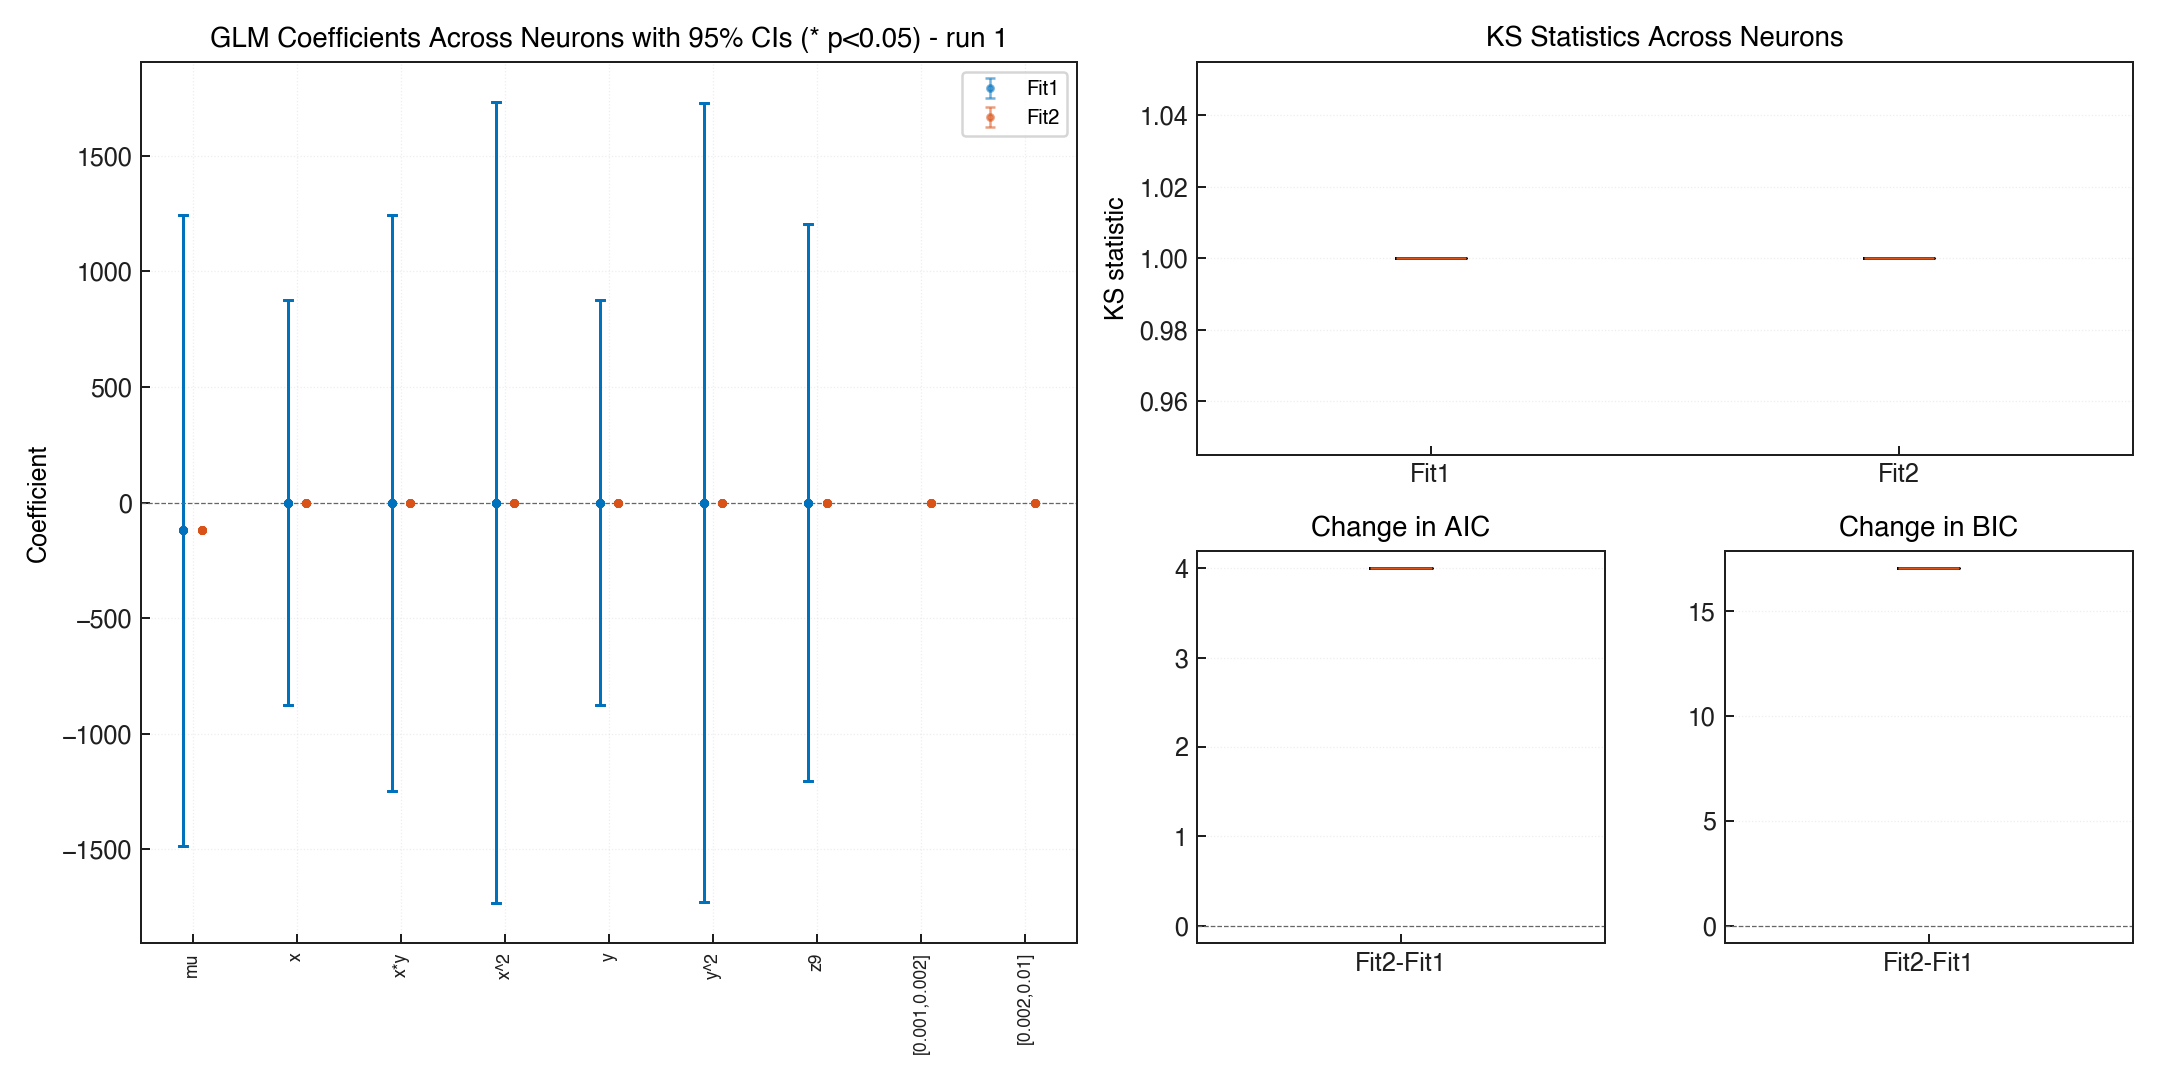
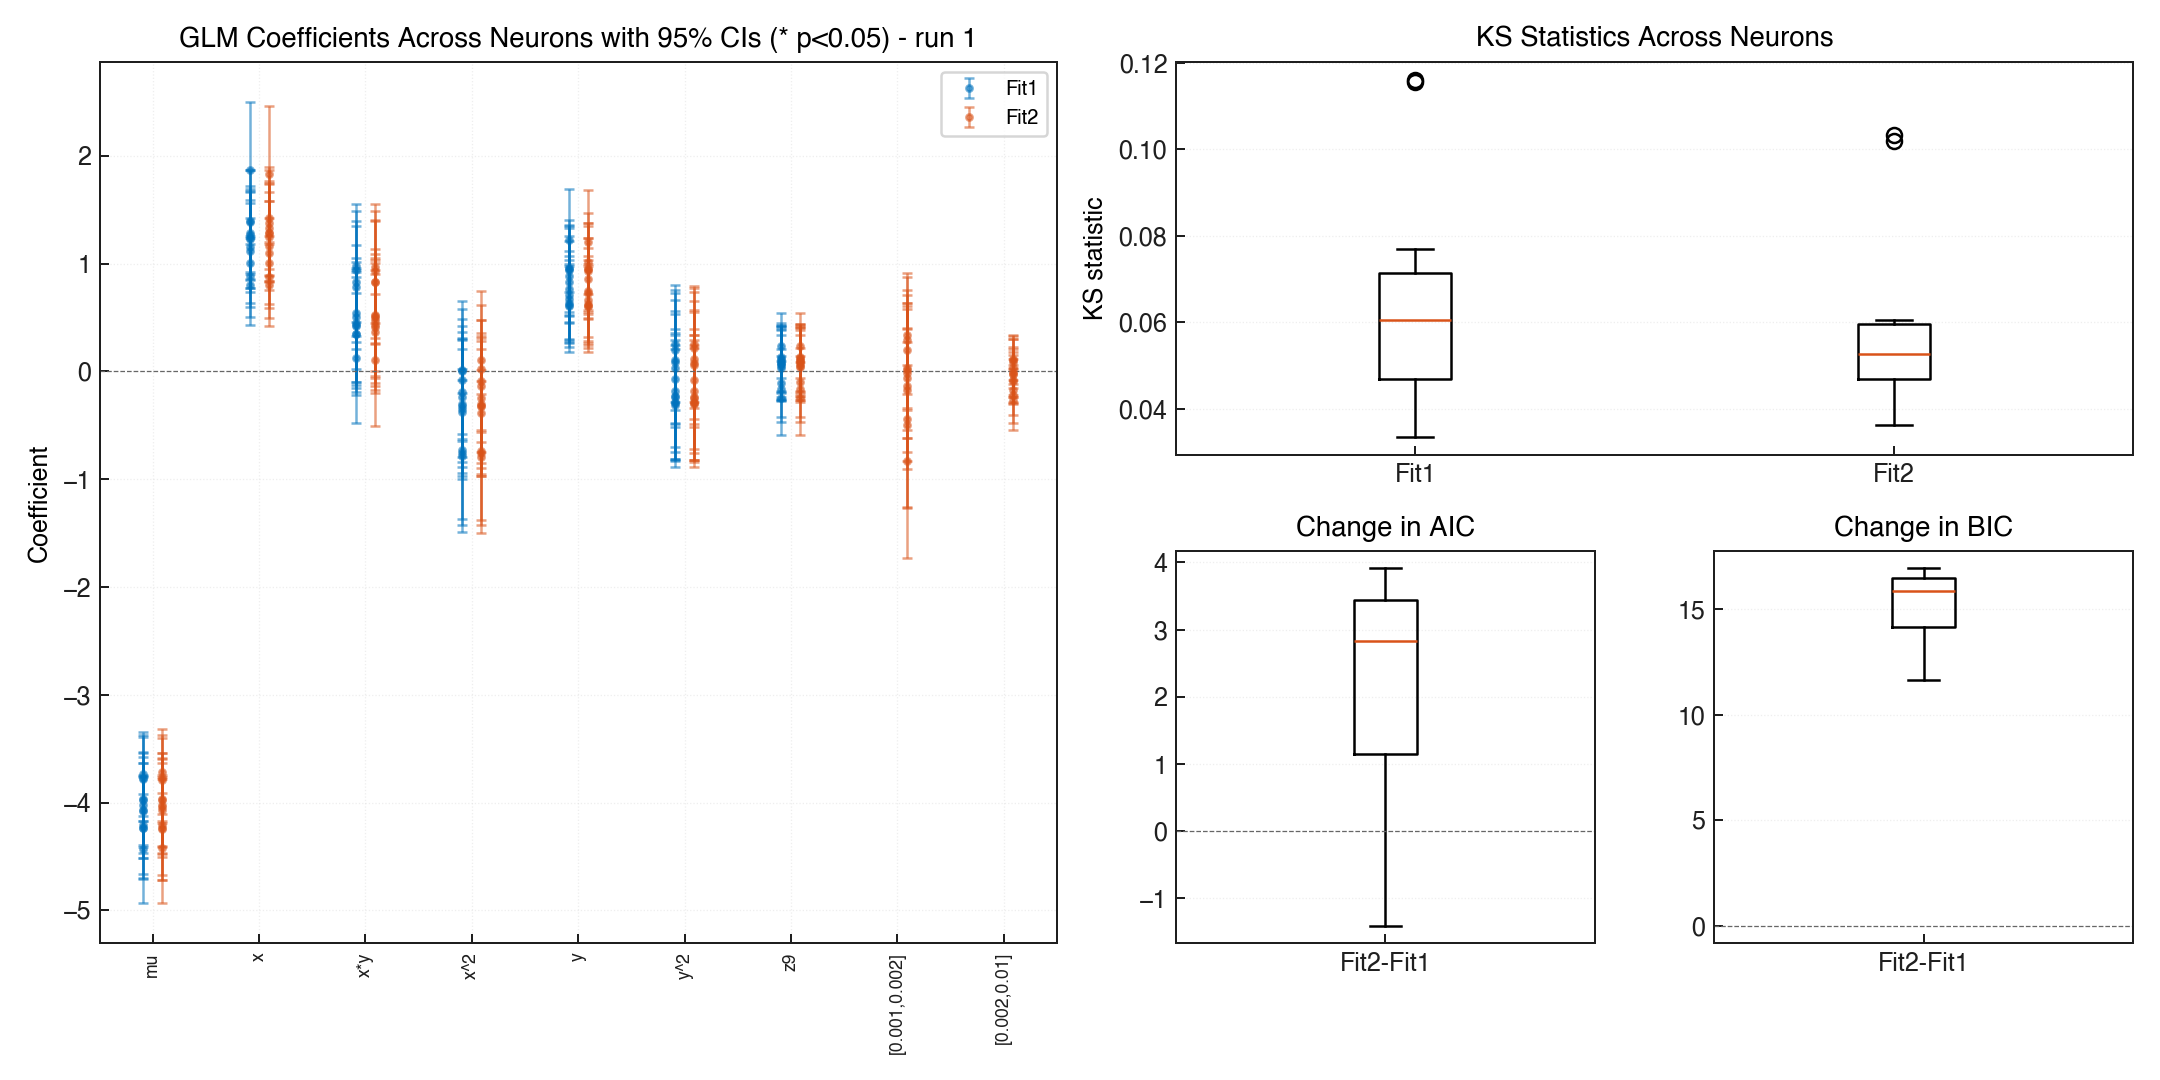
fix(notebooks): HistoryExamples synthetic population now fires at ~30 Hz
_build_population's beta_true["mu"] was -3.0, which with Ts=1ms gives a
per-bin spike probability <= 3.3e-4 (~0.1 Hz) -- most of the 12 synthetic
neurons produced 0-2 spikes total over the 5 s run. Every Fit1/Fit2 GLM
in SECTION 6 was then degenerate: the two history columns were all-zero
(rank 7 of 9), fits reported arbitrary SEs instead of NaN, and the
Fit1-vs-Fit2 comparison figures showed no real history effect.

Raise mu to 3.0 (mean rate ~30 Hz, ~130-165 spikes/neuron) so every GLM
is full rank and the comparison is meaningful. Regenerated the
HistoryExamples gallery (fig_004-fig_007) and the cross-notebook gallery
index via tools/notebook_build/build_notebook_galleries.py (the index on
main had drifted to a single entry; --skip-execute --group full restored
all 23 rows from the committed galleries). Marked the
history-examples-near-zero-spike-population ledger entry fixed and
updated the matching RELEASE_NOTES.md paragraph.

diff --git a/docs/notebook_galleries/README.md b/docs/notebook_galleries/README.md
@@ -10,6 +10,28 @@ MATLAB-helpfile port) rather than substantive plots — those are marked.
 
 | Notebook | Figures | Substantive | Source |
 |---|---|---|---|
+| [`AnalysisExamples`](AnalysisExamples/) | 4 | yes | [`notebooks/AnalysisExamples.ipynb`](../../notebooks/AnalysisExamples.ipynb) |
+| [`AnalysisExamples2`](AnalysisExamples2/) | 4 | yes | [`notebooks/AnalysisExamples2.ipynb`](../../notebooks/AnalysisExamples2.ipynb) |
+| [`CovCollExamples`](CovCollExamples/) | 2 | yes | [`notebooks/CovCollExamples.ipynb`](../../notebooks/CovCollExamples.ipynb) |
+| [`CovariateExamples`](CovariateExamples/) | 2 | yes | [`notebooks/CovariateExamples.ipynb`](../../notebooks/CovariateExamples.ipynb) |
+| [`DecodingExample`](DecodingExample/) | 7 | yes | [`notebooks/DecodingExample.ipynb`](../../notebooks/DecodingExample.ipynb) |
+| [`DecodingExampleWithHist`](DecodingExampleWithHist/) | 2 | yes | [`notebooks/DecodingExampleWithHist.ipynb`](../../notebooks/DecodingExampleWithHist.ipynb) |
+| [`EventsExamples`](EventsExamples/) | 4 | yes | [`notebooks/EventsExamples.ipynb`](../../notebooks/EventsExamples.ipynb) |
+| [`ExplicitStimulusWhiskerData`](ExplicitStimulusWhiskerData/) | 10 | yes | [`notebooks/ExplicitStimulusWhiskerData.ipynb`](../../notebooks/ExplicitStimulusWhiskerData.ipynb) |
+| [`HippocampalPlaceCellExample`](HippocampalPlaceCellExample/) | 11 | yes | [`notebooks/HippocampalPlaceCellExample.ipynb`](../../notebooks/HippocampalPlaceCellExample.ipynb) |
+| [`HistoryExamples`](HistoryExamples/) | 7 | yes | [`notebooks/HistoryExamples.ipynb`](../../notebooks/HistoryExamples.ipynb) |
+| [`HybridFilterExample`](HybridFilterExample/) | 3 | yes | [`notebooks/HybridFilterExample.ipynb`](../../notebooks/HybridFilterExample.ipynb) |
+| [`NetworkTutorial`](NetworkTutorial/) | 7 | yes | [`notebooks/NetworkTutorial.ipynb`](../../notebooks/NetworkTutorial.ipynb) |
+| [`PPSimExample`](PPSimExample/) | 4 | yes | [`notebooks/PPSimExample.ipynb`](../../notebooks/PPSimExample.ipynb) |
+| [`PPThinning`](PPThinning/) | 4 | yes | [`notebooks/PPThinning.ipynb`](../../notebooks/PPThinning.ipynb) |
+| [`PSTHEstimation`](PSTHEstimation/) | 2 | yes | [`notebooks/PSTHEstimation.ipynb`](../../notebooks/PSTHEstimation.ipynb) |
+| [`SignalObjExamples`](SignalObjExamples/) | 20 | yes | [`notebooks/SignalObjExamples.ipynb`](../../notebooks/SignalObjExamples.ipynb) |
 | [`StimulusDecode2D`](StimulusDecode2D/) | 6 | yes | [`notebooks/StimulusDecode2D.ipynb`](../../notebooks/StimulusDecode2D.ipynb) |
+| [`TrialExamples`](TrialExamples/) | 6 | yes | [`notebooks/TrialExamples.ipynb`](../../notebooks/TrialExamples.ipynb) |
+| [`ValidationDataSet`](ValidationDataSet/) | 12 | yes | [`notebooks/ValidationDataSet.ipynb`](../../notebooks/ValidationDataSet.ipynb) |
+| [`mEPSCAnalysis`](mEPSCAnalysis/) | 5 | yes | [`notebooks/mEPSCAnalysis.ipynb`](../../notebooks/mEPSCAnalysis.ipynb) |
+| [`nSTATPaperExamples`](nSTATPaperExamples/) | 29 | yes | [`notebooks/nSTATPaperExamples.ipynb`](../../notebooks/nSTATPaperExamples.ipynb) |
+| [`nSpikeTrainExamples`](nSpikeTrainExamples/) | 7 | yes | [`notebooks/nSpikeTrainExamples.ipynb`](../../notebooks/nSpikeTrainExamples.ipynb) |
+| [`nstCollExamples`](nstCollExamples/) | 5 | yes | [`notebooks/nstCollExamples.ipynb`](../../notebooks/nstCollExamples.ipynb) |
 
 Regenerate this gallery with `make regen-notebook-galleries` (executes the smoke group; pass `--group full` for everything).

diff --git a/parity/matlab_defects.md b/parity/matlab_defects.md
@@ -1186,13 +1186,13 @@ Schema for each entry:
 
 ---
 
-### Bug (Python notebook, not a MATLAB defect): `HistoryExamples.ipynb`: the synthetic population of the Fit1-vs-Fit2 section has almost no spikes (Python notebook bug; follow-up)
+### Bug (Python notebook, not a MATLAB defect): `HistoryExamples.ipynb`: the synthetic population of the Fit1-vs-Fit2 section has almost no spikes (Python notebook bug; fixed)
 
 - **MATLAB location:** n/a (nstat-python `notebooks/HistoryExamples.ipynb`, SECTION 6 `_build_population`)
 - **Defect class:** Bug (Python notebook, not a MATLAB defect)
 - **MATLAB behavior:** The generator sets `rate = exp(eta)` with eta about -3 and draws spikes with probability `1 - exp(-rate*Ts)` per 1 ms bin, i.e. it treats exp(eta) as spikes per second: the per-bin probability is <= 3.3e-4, so run 1 gives 0 spikes for all 12 neurons and run 2 at most 1.  Every Fit1 / Fit2 GLM is then degenerate (b0 = -120 for an empty train, KS = 1, Delta AIC = 4 from the two extra history columns), and the comparison figures (gallery fig_004 to fig_006) show no history effect at all.
 - **Correct behavior:** A population with enough spikes for the fits to mean something (for example a per-bin intensity exp(eta), or a rate in Hz of tens of spikes per second).
-- **Python implementation:** Not fixed (follow-up; found by the EM-branch review).  Since GLMFit's rank handling (nstat-python `948b0ce`) the 19 rank-deficient history fits (design 5001 x 9, rank 7: the two history columns are all zero) report finite SEs of about 450-885 and 0 for the two empty columns instead of all NaN; b changes by <= 7e-12 and AIC not at all.  So fig_004 to fig_006 gain Fit2 error bars.  The committed gallery PNGs were not regenerated: they byte-match neither a run of the base nor of the branch, and no gate checks them.
+- **Python implementation:** Fixed (P2b-2026-10): `_build_population`'s `beta_true["mu"]` changed from -3.0 to 3.0, so the mean per-bin rate is ~30 Hz (~130-166 spikes per neuron over the 5 s / 1000 Hz run) instead of <0.1 Hz. Every Fit1 / Fit2 GLM is now well-identified (no rank-deficient designs), and the regenerated gallery figures (fig_004 to fig_007) show a real history effect. Regenerated via `tools/notebook_build/build_notebook_galleries.py --group full --topics HistoryExamples` then `--group full --skip-execute` to refresh the cross-notebook index.
 - **Fixture impact:** none
 - **Discovered:** EM-branch review / 2026-10
 - **Upstream status:** n/a

diff --git a/RELEASE_NOTES.md b/RELEASE_NOTES.md
@@ -199,14 +199,14 @@ does about it, and the known gaps.
   briefly raised on it; MATLAB's `glmfit` would drop the NaN rows, which is not
   mirrored). The binomial `'BNLRCG'` fit is not a MATLAB mirror on
   rank-deficient designs (MATLAB's `bnlrCG` returns complex standard errors
-  there; see the ledger). This changes one notebook gallery: in
-  `notebooks/HistoryExamples.ipynb` 19 of 48 `GLMFit` calls are
+  there; see the ledger). This previously changed one notebook gallery: in
+  `notebooks/HistoryExamples.ipynb` 19 of 48 `GLMFit` calls were
   rank-deficient (the history fits: design 5001 x 9 of rank 7, because the
-  notebook's synthetic population has almost no spikes; see the ledger entry
-  `history-examples-near-zero-spike-population`). Their SEs go from all NaN to
-  finite values (about 450-885, and 0 for the two all-zero history columns),
-  so its figures 4-6 gain the Fit2 error bars; b and AIC are unchanged (b to
-  7e-12). The committed gallery PNGs were not regenerated.
+  notebook's synthetic population had almost no spikes; see the ledger entry
+  `history-examples-near-zero-spike-population`, now fixed). The population's
+  baseline rate was raised from ~0.1 Hz to ~30 Hz so every Fit1/Fit2 GLM is
+  full rank, and the gallery (`docs/notebook_galleries/HistoryExamples/`) was
+  regenerated to match.
 - The EM routines report progress through `logging` instead of `print` and are
   silent by default (`KF_EM` and `PP_EM` on logger `nstat.decoding_algorithms`,
   `PPLFP_EM` / `PPLFP_MStep` on `nstat.decoding.PPLFP`).
